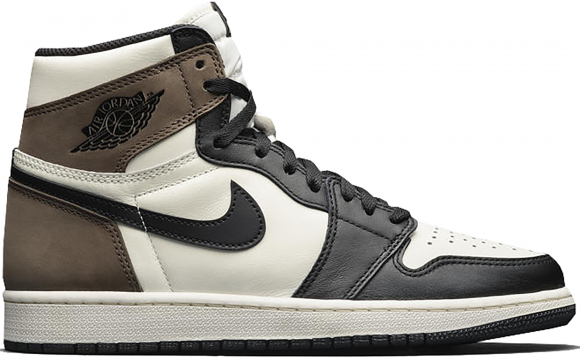
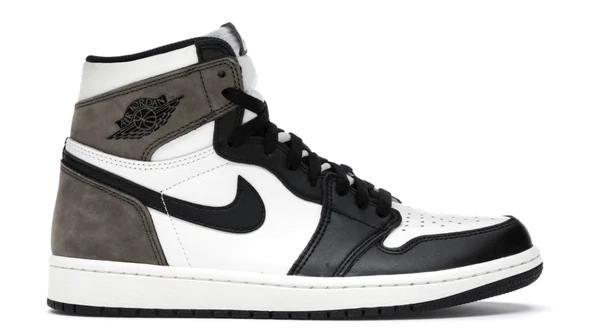
fixat alla bilder utom 1

diff --git a/index.html b/index.html
@@ -64,9 +64,9 @@
                             <div class="card-body p-4">
                                 <div class="text-center">
                                     <!-- Product name-->
-                                    <h5 class="fw-bolder">Fancy Product</h5>
+                                    <h5 class="fw-bolder">Air Jordan 1 Retro High OG 'Dark Mocha'</h5>
                                     <!-- Product price-->
-                                    $40.00 - $80.00
+                                    5 999 kr
                                 </div>
                             </div>
                             <!-- Product actions-->
@@ -77,26 +77,19 @@
                     </div>
                     <div class="col mb-5">
                         <div class="card h-100">
-                            <!-- Sale badge-->
-                            <div class="badge bg-dark text-white position-absolute" style="top: 0.5rem; right: 0.5rem">Sale</div>
+                           
+                           
                             <!-- Product image-->
                             <img class="card-img-top" src="Images/unc.png" alt="..." />
                             <!-- Product details-->
                             <div class="card-body p-4">
                                 <div class="text-center">
                                     <!-- Product name-->
-                                    <h5 class="fw-bolder">Special Item</h5>
+                                    <h5 class="fw-bolder">Nike Dunk Low 'UNC'</h5>
                                     <!-- Product reviews-->
-                                    <div class="d-flex justify-content-center small text-warning mb-2">
-                                        <div class="bi-star-fill"></div>
-                                        <div class="bi-star-fill"></div>
-                                        <div class="bi-star-fill"></div>
-                                        <div class="bi-star-fill"></div>
-                                        <div class="bi-star-fill"></div>
-                                    </div>
+                                    
                                     <!-- Product price-->
-                                    <span class="text-muted text-decoration-line-through">$20.00</span>
-                                    $18.00
+                                    3 499 kr
                                 </div>
                             </div>
                             <!-- Product actions-->
@@ -107,67 +100,17 @@
                     </div>
                     <div class="col mb-5">
                         <div class="card h-100">
-                            <!-- Sale badge-->
-                            <div class="badge bg-dark text-white position-absolute" style="top: 0.5rem; right: 0.5rem">Sale</div>
+                           
+                            
                             <!-- Product image-->
-                            <img class="card-img-top" src="Images/Dior-x-Air-Jordan-1s.jpg" alt="..." />
+                            <img class="card-img-top" src="Images/550.png" alt="..." />
                             <!-- Product details-->
                             <div class="card-body p-4">
                                 <div class="text-center">
                                     <!-- Product name-->
-                                    <h5 class="fw-bolder">Sale Item</h5>
+                                    <h5 class="fw-bolder">New Balance 550 'White Blue'</h5>
                                     <!-- Product price-->
-                                    <span class="text-muted text-decoration-line-through">$50.00</span>
-                                    $25.00
-                                </div>
-                            </div>
-                            <!-- Product actions-->
-                            <div class="card-footer p-4 pt-0 border-top-0 bg-transparent">
-                                <div class="text-center"><a class="btn btn-outline-dark mt-auto" href="#">Add to cart</a></div>
-                            </div>
-                        </div>
-                    </div>
-                    <div class="col mb-5">
-                        <div class="card h-100">
-                            <!-- Product image-->
-                            <img class="card-img-top" src="Images/Air forces.jpg" alt="..." />
-                            <!-- Product details-->
-                            <div class="card-body p-4">
-                                <div class="text-center">
-                                    <!-- Product name-->
-                                    <h5 class="fw-bolder">Popular Item</h5>
-                                    <!-- Product reviews-->
-                                    <div class="d-flex justify-content-center small text-warning mb-2">
-                                        <div class="bi-star-fill"></div>
-                                        <div class="bi-star-fill"></div>
-                                        <div class="bi-star-fill"></div>
-                                        <div class="bi-star-fill"></div>
-                                        <div class="bi-star-fill"></div>
-                                    </div>
-                                    <!-- Product price-->
-                                    $40.00
-                                </div>
-                            </div>
-                            <!-- Product actions-->
-                            <div class="card-footer p-4 pt-0 border-top-0 bg-transparent">
-                                <div class="text-center"><a class="btn btn-outline-dark mt-auto" href="#">Add to cart</a></div>
-                            </div>
-                        </div>
-                    </div>
-                    <div class="col mb-5">
-                        <div class="card h-100">
-                            <!-- Sale badge-->
-                            <div class="badge bg-dark text-white position-absolute" style="top: 0.5rem; right: 0.5rem">Sale</div>
-                            <!-- Product image-->
-                            <img class="card-img-top" src="Images/Prada.jpg" alt="..." />
-                            <!-- Product details-->
-                            <div class="card-body p-4">
-                                <div class="text-center">
-                                    <!-- Product name-->
-                                    <h5 class="fw-bolder">Sale Item</h5>
-                                    <!-- Product price-->
-                                    <span class="text-muted text-decoration-line-through">$50.00</span>
-                                    $25.00
+                                    2 099 kr
                                 </div>
                             </div>
                             <!-- Product actions-->
@@ -179,14 +122,56 @@
                     <div class="col mb-5">
                         <div class="card h-100">
                             <!-- Product image-->
-                            <img class="card-img-top" src="Images/Sandaler.jpg" alt="..." />
+                            <img class="card-img-top" src="Images/infared.png" alt="..." />
                             <!-- Product details-->
                             <div class="card-body p-4">
                                 <div class="text-center">
                                     <!-- Product name-->
-                                    <h5 class="fw-bolder">Fancy Product</h5>
+                                    <h5 class="fw-bolder">Air Jordan 4 Retro 'Infrared'</h5>
+                                   
+                                   
                                     <!-- Product price-->
-                                    $120.00 - $280.00
+                                    3 499 kr
+                                </div>
+                            </div>
+                            <!-- Product actions-->
+                            <div class="card-footer p-4 pt-0 border-top-0 bg-transparent">
+                                <div class="text-center"><a class="btn btn-outline-dark mt-auto" href="#">Add to cart</a></div>
+                            </div>
+                        </div>
+                    </div>
+                 
+                    <div class="col mb-5">
+                        <div class="card h-100">
+                           <!-- Product image-->
+                            <img class="card-img-top" src="Images/cyan.png" alt="..." />
+                            <!-- Product details-->
+                            <div class="card-body p-4">
+                                <div class="text-center">
+                                    <!-- Product name-->
+                                    <h5 class="fw-bolder">New Balance 550 'Burgundy Cyan'</h5>
+                                    <!-- Product price-->
+                                    2 399 kr
+                                </div>
+                            </div>
+                            <!-- Product actions-->
+                            <div class="card-footer p-4 pt-0 border-top-0 bg-transparent">
+                                <div class="text-center"><a class="btn btn-outline-dark mt-auto" href="#">Add to cart</a></div>
+                            </div>
+                        </div>
+                    </div>
+                   
+                    <div class="col mb-5">
+                        <div class="card h-100">
+                            <!-- Product image-->
+                            <img class="card-img-top" src="Images/travis.png" alt="..." />
+                            <!-- Product details-->
+                            <div class="card-body p-4">
+                                <div class="text-center">
+                                    <!-- Product name-->
+                                    <h5 class="fw-bolder">Air Jordan 1 Retro Low OG SP 'Travis Scott Reverse Mocha'</h5>
+                                    <!-- Product price-->
+                                    14 999kr
                                 </div>
                             </div>
                             <!-- Product actions-->
@@ -195,28 +180,20 @@
                             </div>
                         </div>
                     </div>
+                    
                     <div class="col mb-5">
                         <div class="card h-100">
-                            <!-- Sale badge-->
-                            <div class="badge bg-dark text-white position-absolute" style="top: 0.5rem; right: 0.5rem">Sale</div>
+                           
                             <!-- Product image-->
-                            <img class="card-img-top" src="Images/Air max.jpg" alt="..." />
+                            <img class="card-img-top" src="Images/benjerry.png" alt="..." />
                             <!-- Product details-->
                             <div class="card-body p-4">
                                 <div class="text-center">
                                     <!-- Product name-->
-                                    <h5 class="fw-bolder">Special Item</h5>
-                                    <!-- Product reviews-->
-                                    <div class="d-flex justify-content-center small text-warning mb-2">
-                                        <div class="bi-star-fill"></div>
-                                        <div class="bi-star-fill"></div>
-                                        <div class="bi-star-fill"></div>
-                                        <div class="bi-star-fill"></div>
-                                        <div class="bi-star-fill"></div>
-                                    </div>
+                                    <h5 class="fw-bolder">Nike SB Dunk Low Ben & Jerry's 'Chunky Dunky'</h5>
+                                 
                                     <!-- Product price-->
-                                    <span class="text-muted text-decoration-line-through">$20.00</span>
-                                    $18.00
+                                    16 999 kr
                                 </div>
                             </div>
                             <!-- Product actions-->
